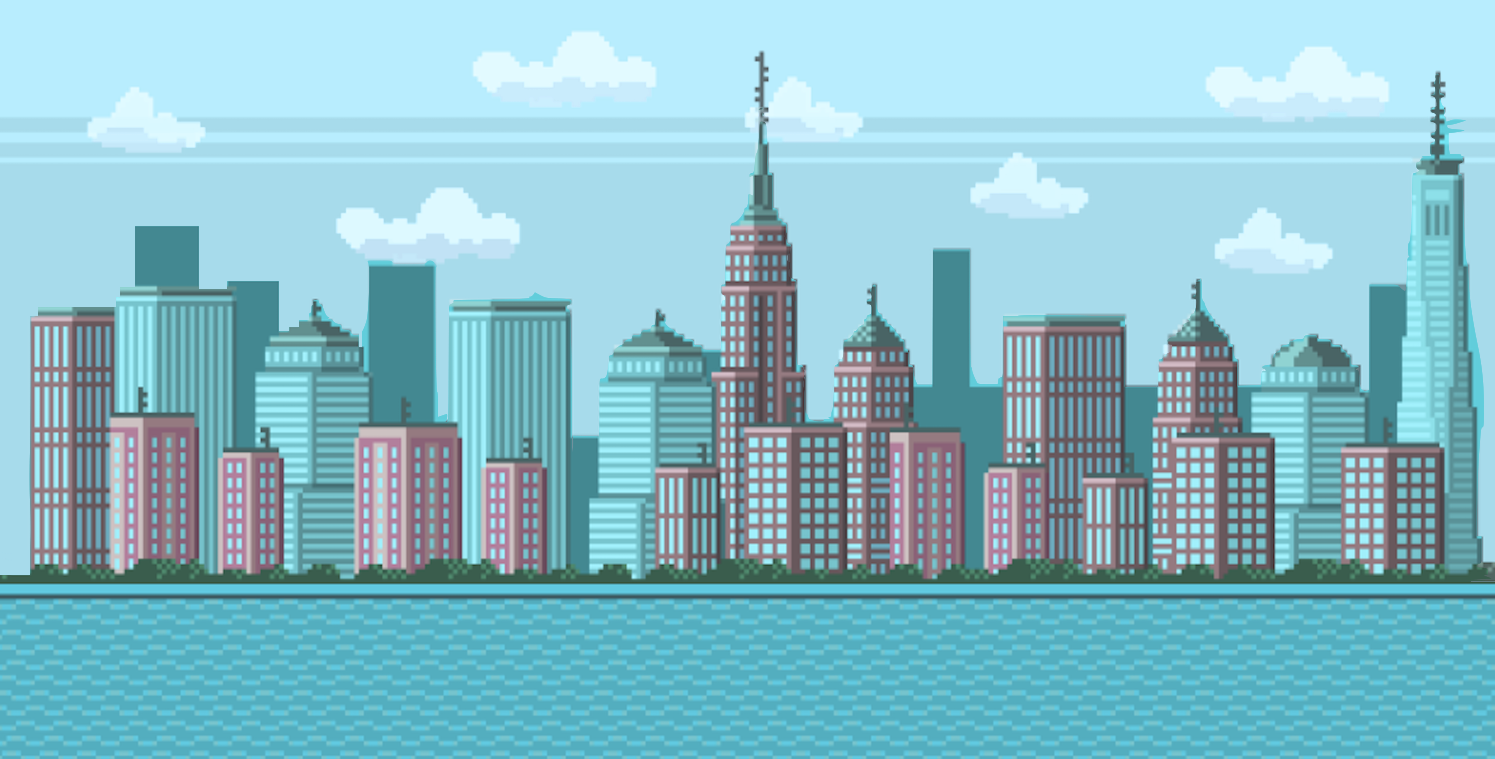
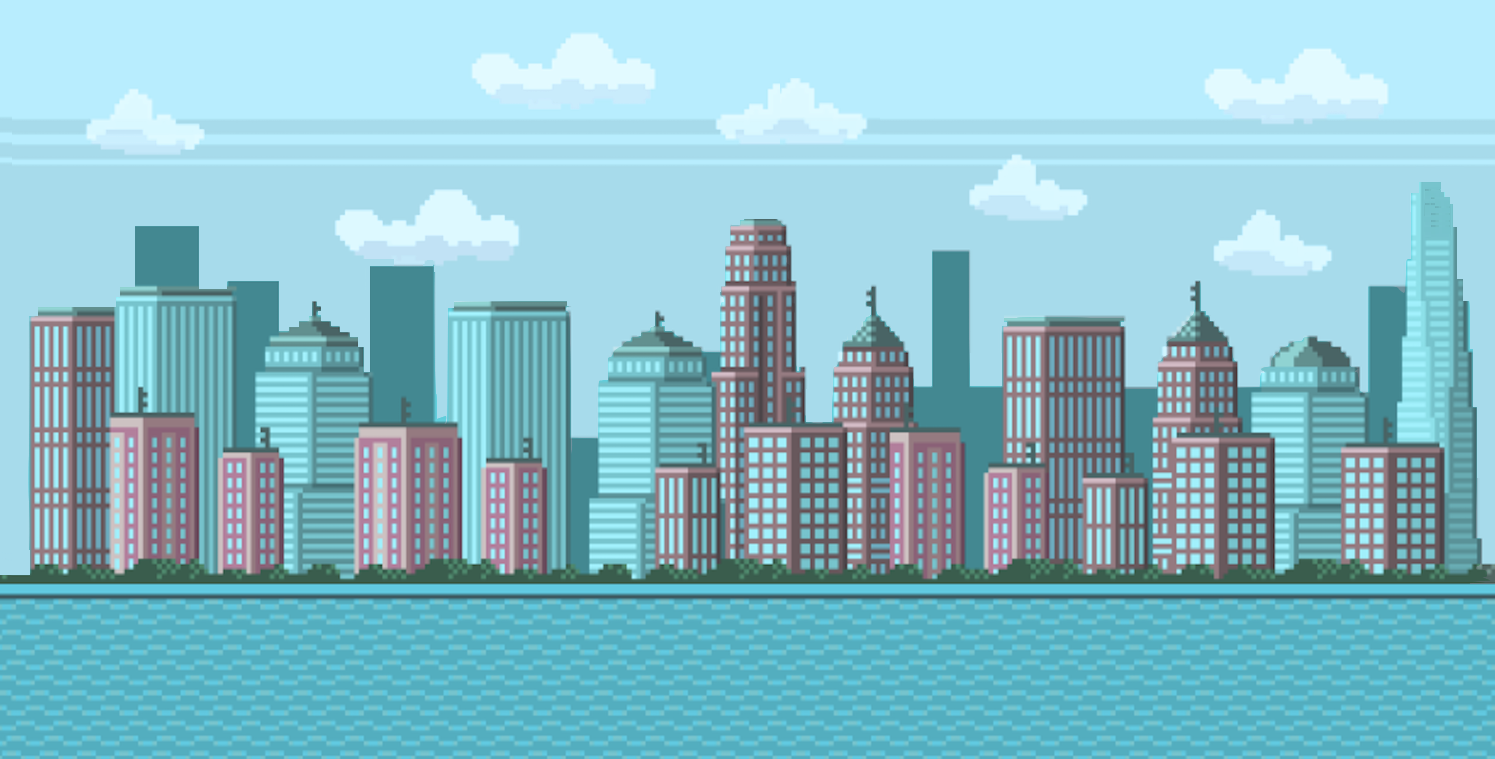
Background image changed, sprite colour random, deleted unused images

diff --git a/src/spawnObjects.js b/src/spawnObjects.js
@@ -9,10 +9,10 @@ export default class SpawnObjects {
   }
 
   spawn(){
-    this.platforms.push(new Platform('./assets/pavement.png', 0, 700, 100, 1600))
-    this.passerbyFloor.push(new Passerby(1500))
-    this.passerbyFloor.push(new Passerby(1900))
-    this.passerbyFloor.push(new Passerby(2000))
+    this.platforms.push(new Platform( './assets/pavement.png', 0, 700, 100, 1600))
+    this.passerbyFloor.push(new Passerby("./assets/old_sprite.png", 1500))
+    this.passerbyFloor.push(new Passerby("./assets/pink_sprite.png",1900))
+    this.passerbyFloor.push(new Passerby("./assets/orange_sprite.png", 2000))
   }
 
   update(ctx){
@@ -62,7 +62,7 @@ export default class SpawnObjects {
     if (random == 4){
       this.platforms.push(new Platform('./assets/pavement.png', 1600, 700, 100, 1600))
       this.platforms.push(new Platform('./assets/pavement.png', 2300, 500, 100, 200))
-      this.platforms.push(new Platform('./assets/pavement.png ', 3500, 700, 100, 1600))
+      this.platforms.push(new Platform('./assets/pavement.png', 3500, 700, 100, 1600))
     }
   }
 
@@ -95,7 +95,12 @@ export default class SpawnObjects {
   _spawnRandomPasserby(){
     var positions = [1500, 1600, 1700, 1800, 1900, 2000, 2100, 2200, 2300, 2400, 2500, 2600, 2700, 2800, 2900, 3000]
     var random_x = Math.floor(Math.random() * (positions.length)) + 0
-    this.passerbyFloor.push(new Passerby(positions[random_x]))
+    var passerbyArray = ['./assets/old_sprite.png','./assets/pink_sprite.png','./assets/orange_sprite.png']
+    var random_colour = Math.floor(Math.random() * (3)) + 0
+    console.log(random_colour)
+    var random = passerbyArray[random_colour]
+
+    this.passerbyFloor.push(new Passerby(random, positions[random_x]))
   }
 
   _removePasserby(){
@@ -109,11 +114,11 @@ export default class SpawnObjects {
     var number = Score.distance.toFixed(0)
 
     if(number === '10') {
-      if(this.passerbyFloor.length < 4){this.passerbyFloor.push(new Passerby(1600))}
+      if(this.passerbyFloor.length < 4){this.passerbyFloor.push(new Passerby("./assets/old_sprite.png", 1600))}
     }else if (number === '20') {
-      if(this.passerbyFloor.length < 5){this.passerbyFloor.push(new Passerby(1600))}
+      if(this.passerbyFloor.length < 5){this.passerbyFloor.push(new Passerby("./assets/pink_sprite.png", 1600))}
     }else if (number === '30') {
-      if(this.passerbyFloor.length < 6){this.passerbyFloor.push(new Passerby(1600))}
+      if(this.passerbyFloor.length < 6){this.passerbyFloor.push(new Passerby("./assets/orange_sprite.png", 1600))}
   }
 
   }

diff --git a/src/passerby.js b/src/passerby.js
@@ -1,8 +1,8 @@
 export default class Passerby {
-constructor(x_position) {
+constructor(image, x_position) {
     this.position = {x: x_position, y: 628}
     this.image = new Image();
-    this.image.src = "./assets/old_sprite.png"
+    this.image.src = image
     this.SCALE = 4;
     this.WIDTH = 16;
     this.HEIGHT = 18;
